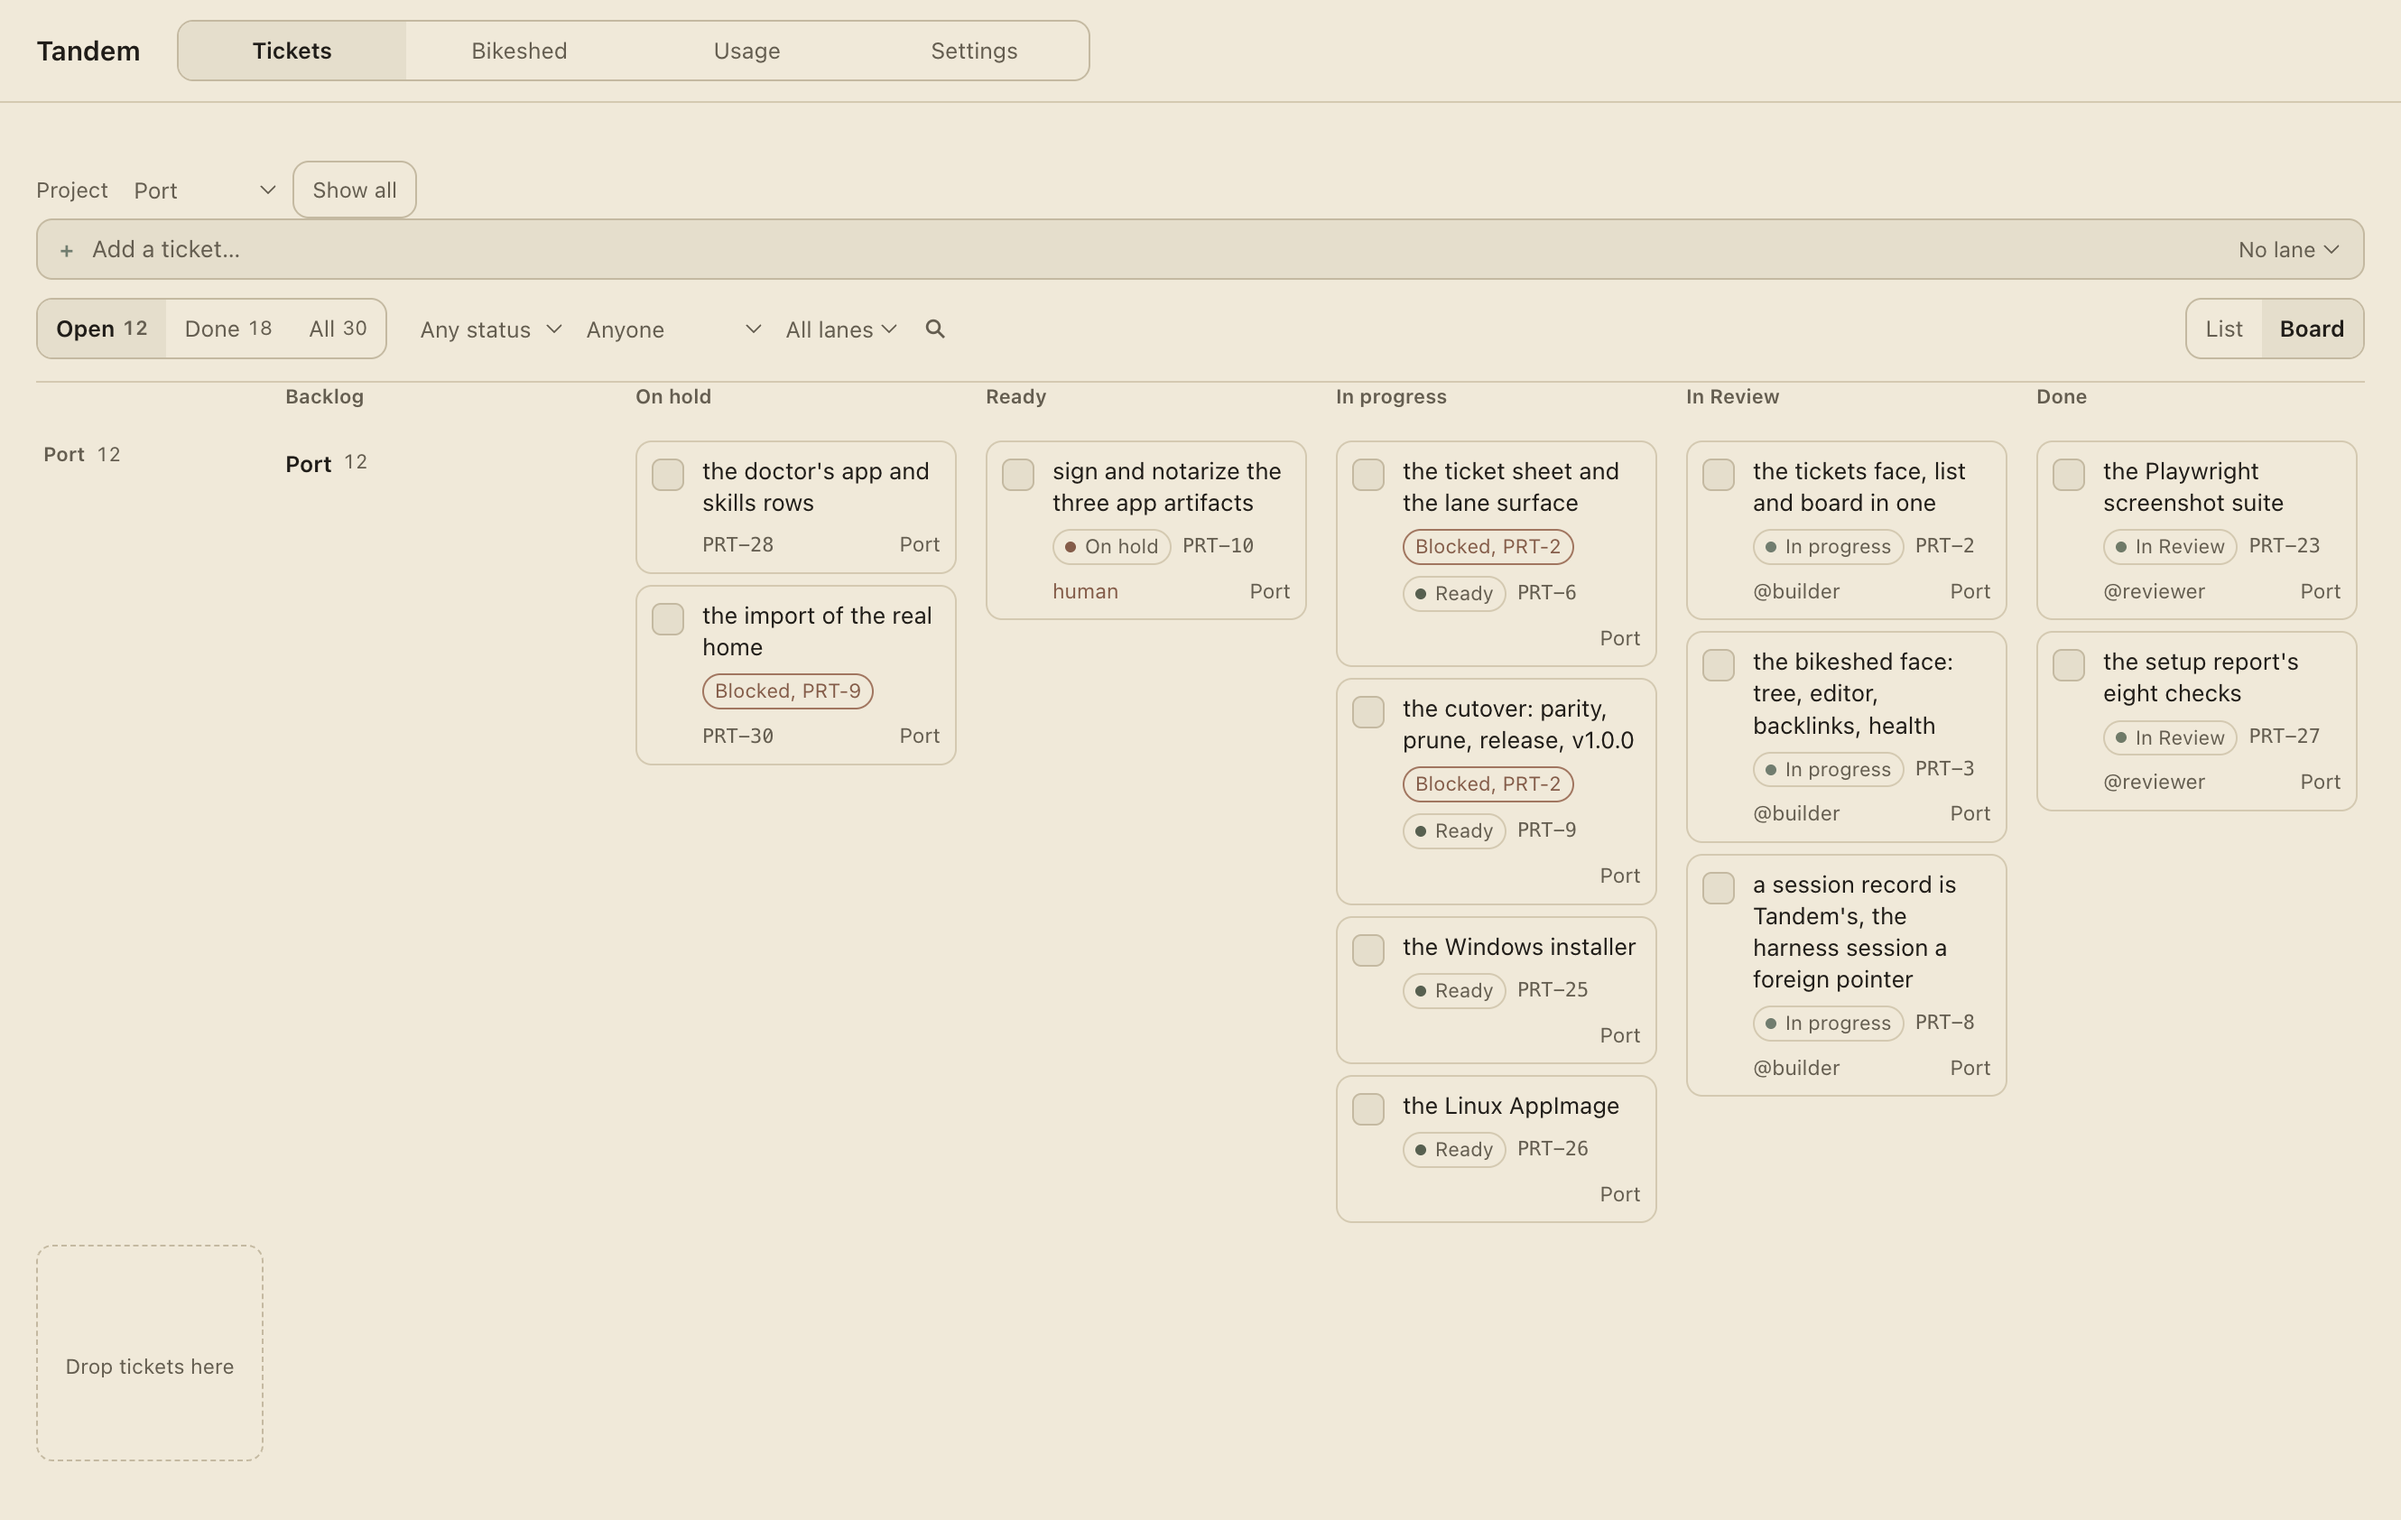
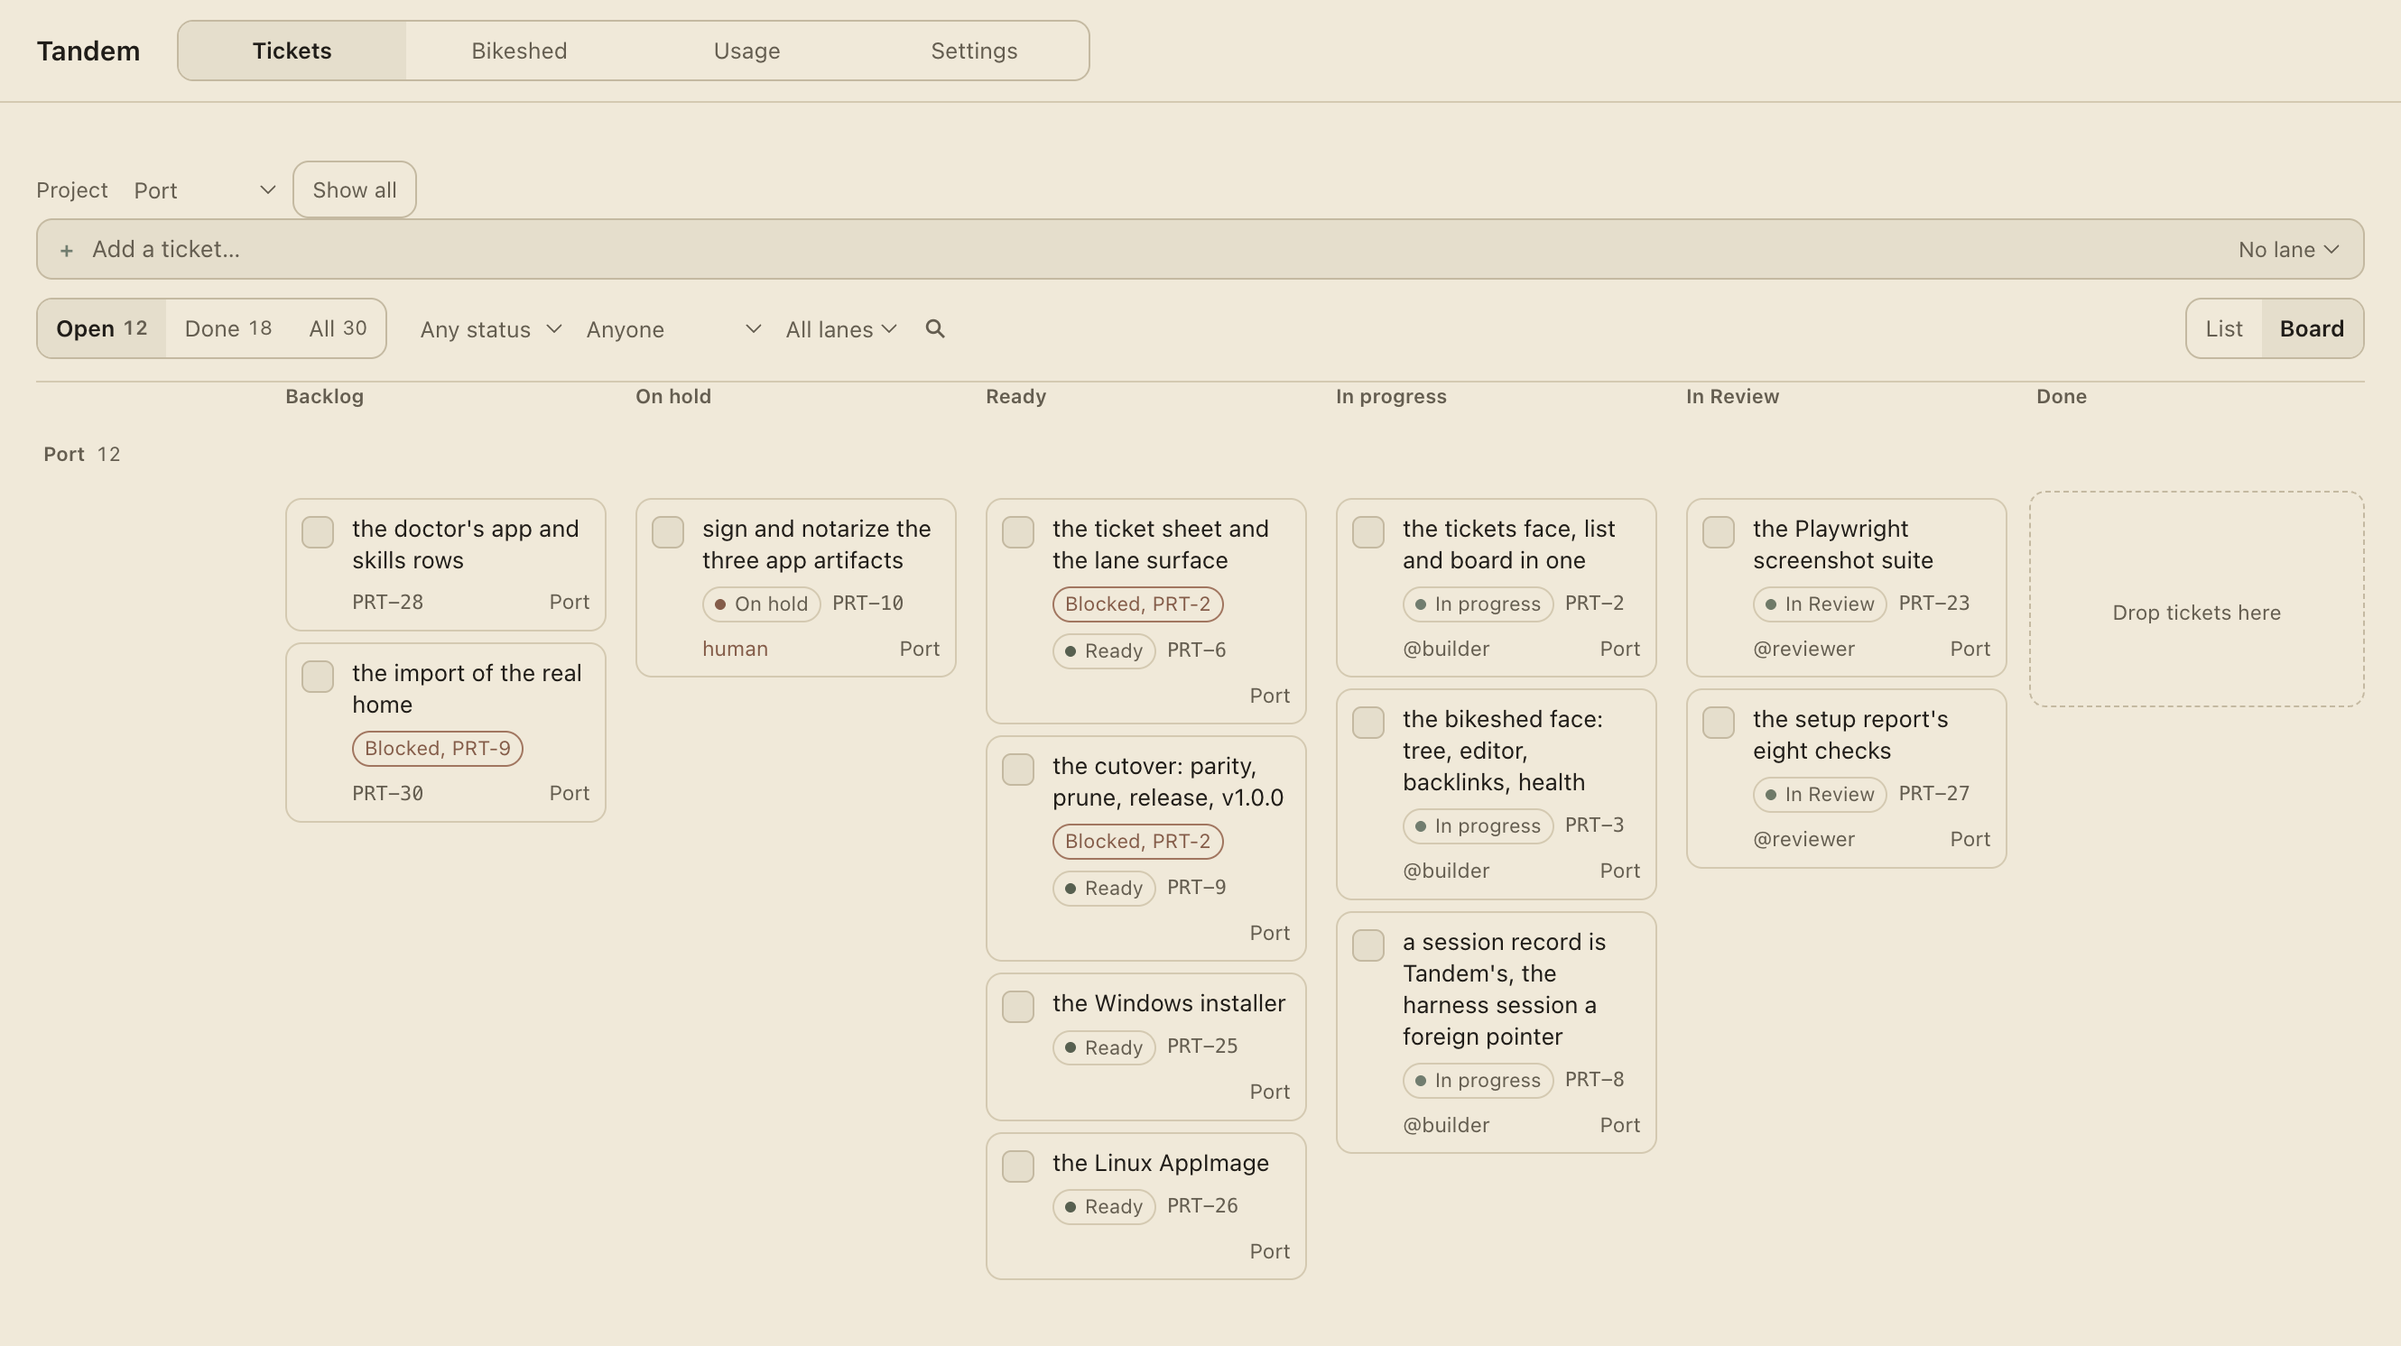
UI-14: anchor the board's project headers to their own grid row
The project title spans the full grid from its own CSS rule, so a headered group contributes one item to the row and every lane row starts in column 1 again. A group whose only lane carries the project's name keeps its title track but draws no duplicate label or count, and the shots assert the aligned title x and regenerate the stale catalogue.

diff --git a/app/tests/board.test.ts b/app/tests/board.test.ts
@@ -2,8 +2,11 @@ import { readFileSync } from 'node:fs'
 import { join } from 'node:path'
 import { fileURLToPath } from 'node:url'
 
+import { createElement } from 'react'
+import { renderToStaticMarkup } from 'react-dom/server'
 import { describe, expect, it } from 'vitest'
 
+import { BoardLayout } from '../renderer/src/faces/BoardLayout'
 import {
   INITIAL_FILTERS,
   appendIndex,
@@ -673,12 +676,57 @@ describe('the project header (UI-9)', () => {
     // The project header keeps data-project and uses its own quiet group class.
     expect(layout).toContain('board__project')
     expect(layout).toContain('data-project')
-    // The header no longer reuses the lane title with a full-width span.
+    // The header spans the grid's full width from its own CSS rule, never an
+    // inline style: one truth per fact, and the h2 stays clean.
+    const css = readFileSync(join(appRoot, 'renderer', 'src', 'app.css'), 'utf8')
+    expect(css).toMatch(/\.board__project-title\s*\{[^}]*grid-column:\s*1 \/ -1/)
     expect(layout).not.toContain("gridColumn: '1 / -1'")
     expect(layout).not.toMatch(/<h2 className="board__title" style/)
     // Lane rows keep .board__title, including the column head.
     expect(layout).toContain('board__title--head')
     expect(layout).toMatch(/<h2 className="board__title">/)
+  })
+
+  it('suppresses a lane title the project header already names', () => {
+    const statuses = boardStatuses()
+    const draw = (project: string, lanes: string[]): string => {
+      const tickets = lanes.map((lane) => ticket({ id: lane, lane, status: 'ready' }))
+      return renderToStaticMarkup(
+        createElement(BoardLayout, {
+          rows: laneRows(lanes, tickets).filter((row) => row.key !== null),
+          statuses,
+          projects: [{ name: project, lanes }],
+          selected: null,
+          onSelect: () => {},
+          onToggle: () => {},
+          onDropOn: () => {},
+          onDropCell: () => {},
+        }),
+      )
+    }
+    const laneTitles = (html: string): string[] =>
+      html.match(/<h2 class="board__title"(?: aria-hidden="true")?>[\s\S]*?<\/h2>/g) ?? []
+
+    // One lane, named like its project: the title track stays (the row keeps
+    // its seven items) but the header is the only visible label and count.
+    const same = laneTitles(draw('Port', ['Port']))
+    expect(same).toHaveLength(1)
+    expect(same[0]).toContain('aria-hidden="true"')
+    expect(same[0]).not.toContain('<span>')
+
+    // A project with more than one lane keeps every lane title: the header
+    // names the group, not each lane.
+    const many = laneTitles(draw('Port', ['Port', 'ui']))
+    expect(many).toHaveLength(2)
+    expect(many[0]).toContain('<span>Port</span>')
+    expect(many[1]).toContain('<span>ui</span>')
+
+    // A single lane named unlike its project stays labelled: the header
+    // cannot stand in for a name it does not carry.
+    const other = laneTitles(draw('Port', ['ui']))
+    expect(other).toHaveLength(1)
+    expect(other[0]).toContain('<span>ui</span>')
+    expect(other[0]).not.toContain('aria-hidden="true"')
   })
 
   it('defines the quiet project treatment without a full-bleed paper band', () => {

diff --git a/app/renderer/src/faces/BoardLayout.tsx b/app/renderer/src/faces/BoardLayout.tsx
@@ -118,6 +118,11 @@ function groupRows(rows: LaneRow[], projects: BoardProject[]): RowGroup[] {
   return groups
 }
 
+/** A group whose only lane carries the project's own name: the header says it once. */
+function namesItsOwnLane(group: RowGroup, row: LaneRow): boolean {
+  return group.project !== null && group.rows.length === 1 && row.key === group.project
+}
+
 function GroupRows({
   group,
   stages,
@@ -153,12 +158,19 @@ function GroupRows({
           key={row.key ?? 'uncategorized'}
           data-lane={row.key ?? ''}
         >
-          <h2 className="board__title">
-            <span>{row.title}</span>
-            <span className="board__count">
-              {row.cells.reduce((count, cell) => count + cell.tickets.length, 0)}
-            </span>
-          </h2>
+          {namesItsOwnLane(group, row) ? (
+            // The project header already names this lane: keep the title track
+            // so the row keeps its seven items, but draw no duplicate label or
+            // count.
+            <h2 className="board__title" aria-hidden="true" />
+          ) : (
+            <h2 className="board__title">
+              <span>{row.title}</span>
+              <span className="board__count">
+                {row.cells.reduce((count, cell) => count + cell.tickets.length, 0)}
+              </span>
+            </h2>
+          )}
           {row.cells.map((cell) => (
             <BoardCell
               key={cell.status}

diff --git a/app/tests/shots/tickets.shots.ts b/app/tests/shots/tickets.shots.ts
@@ -144,6 +144,19 @@ test('the tickets face shows one board two ways: the list and the board over one
     await expect(headers.nth(3)).toHaveAttribute('data-project', 'Fleet')
   }
 
+  // The project header owns its own grid row, so every lane row starts in
+  // column 1: the lane titles share one x instead of stepping a column per
+  // group (UI-14). A suppressed title still holds its title track, so it is a
+  // box to read like any other.
+  const titleBoxes = await Promise.all(
+    (await window.locator('.board__lane[data-lane] .board__title').all()).map((title) =>
+      title.boundingBox(),
+    ),
+  )
+  expect(titleBoxes.length).toBeGreaterThan(0)
+  const titleXs = titleBoxes.map((box) => (box === null ? null : Math.round(box.x)))
+  expect(new Set(titleXs).size).toBe(1)
+
   // The pictures are the Open board, the face's default.
   await window.getByRole('tab', { name: /^Open/ }).click()
   // The grid needs 1288 px for its lane title and six status columns, and the

diff --git a/app/tests/shots/focus.shots.ts b/app/tests/shots/focus.shots.ts
@@ -65,9 +65,15 @@ test('the focused tickets face draws only the active lane plus the focus control
   // ...and the board draws that lane row alone, under its project header.
   const rows = window.locator('.board__lane[data-lane]')
   await expect(rows).toHaveCount(1)
-  await expect(rows.first().locator('.board__title').first()).toContainText(focus as string)
   const headers = window.locator('.board__project[data-project]')
   await expect(headers).toHaveCount(1)
+  await expect(headers.first()).toContainText(focus as string)
+  // The header already names the lane, so the lane title is suppressed: the
+  // element holds the title track, aria-hidden and empty, and no duplicate
+  // count draws (UI-14).
+  const laneTitle = rows.first().locator('.board__title').first()
+  await expect(laneTitle).toHaveAttribute('aria-hidden', 'true')
+  await expect(laneTitle).toHaveText('')
 
   // The list draws the same lane alone.
   await window.getByRole('tab', { name: 'List' }).click()

diff --git a/app/renderer/src/app.css b/app/renderer/src/app.css
@@ -1264,12 +1264,14 @@ body {
 
 /* A project header is a quiet group label, not a lane: smaller than the lane
  * title, dim, transparent with no full-bleed paper band, so the grouped lanes
- * read as one group. It owns only the first track, never a 1 / -1 span. */
+ * read as one group. It spans the whole grid so it fills its own row and every
+ * lane row beneath starts in column 1. */
 .board__project {
   display: contents;
 }
 
 .board__project-title {
+  grid-column: 1 / -1;
   position: sticky;
   left: 0;
   z-index: 1;
